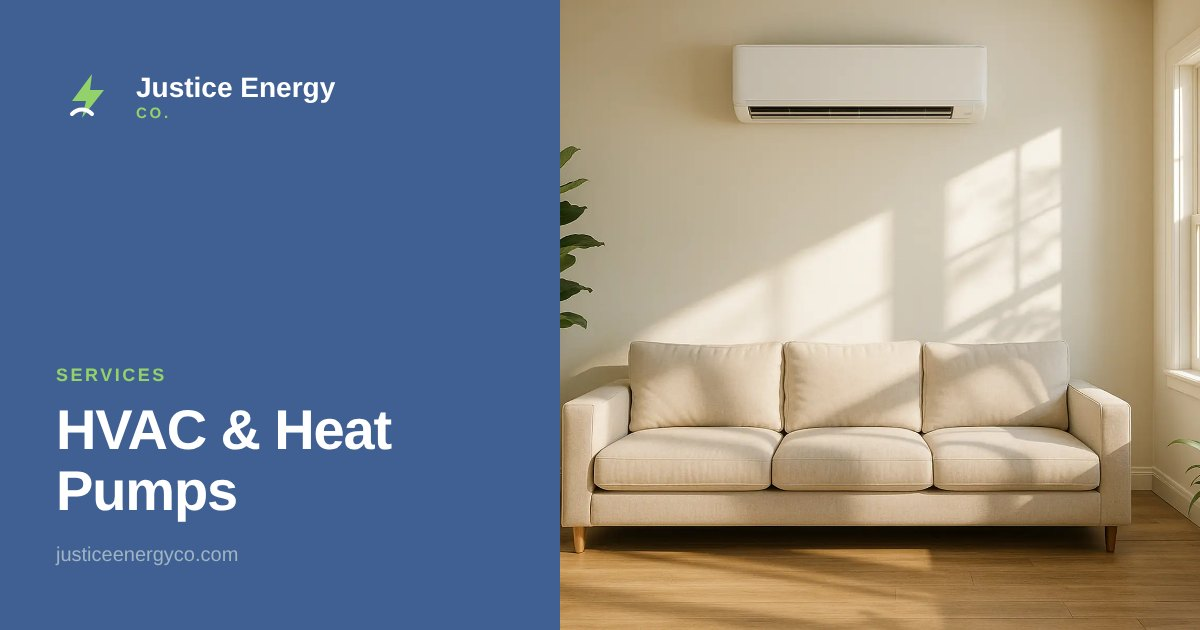
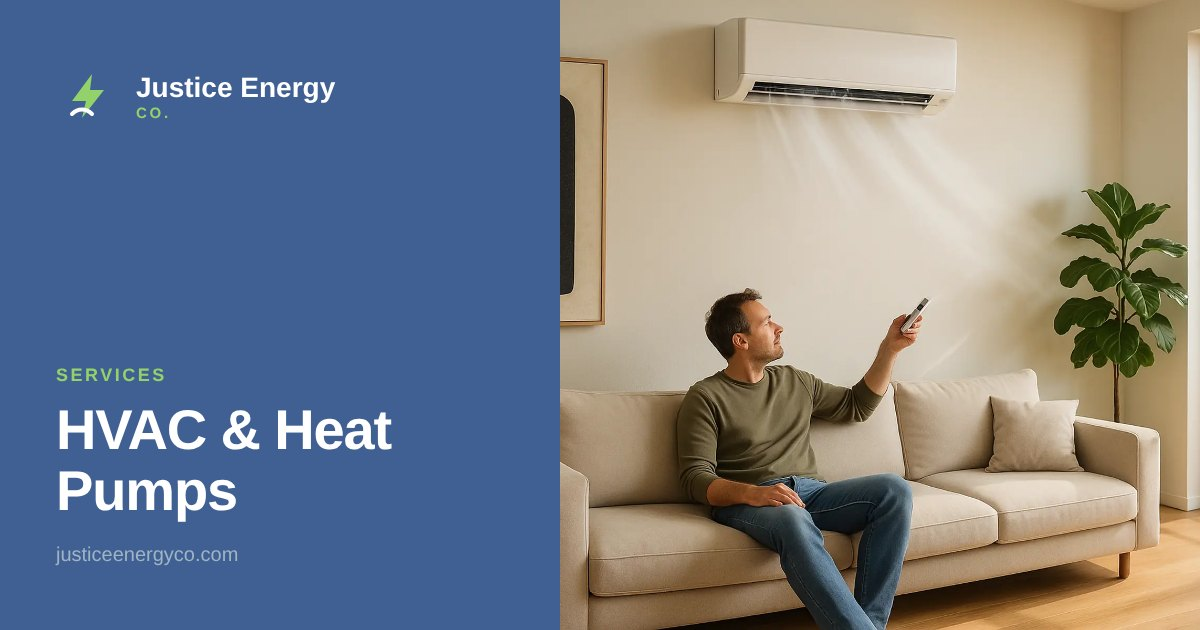
HVAC photo: modern living room, homeowner using the mini-split remote, visible airflow
Claude-Session: https://claude.ai/code/session_01WJBbNDQLUfZvQvpC8s5baG

diff --git a/src/content/photo-prompts.js b/src/content/photo-prompts.js
@@ -28,8 +28,8 @@ module.exports = {
       alt: 'Newly installed heat pump water heater in a clean garage utility area',
     },
     hvac: {
-      prompt: 'Sleek white ductless mini-split indoor unit mounted high on the wall of a bright modern living room, light linen sofa, wood floor, green plants, afternoon sunlight through large windows, calm and comfortable.',
-      alt: 'Ductless mini-split heat pump mounted on the wall of a bright living room',
+      prompt: 'Sleek white ductless mini-split indoor unit mounted high on the wall of a contemporary, design-forward living room: low-profile modular sofa, warm oak floor, minimalist decor, a large abstract artwork, a sculptural floor lamp, green plants, floor-to-ceiling windows with afternoon light. A relaxed adult sits on the sofa cushions, leaning back in the middle of the sofa (not on a bench or ottoman), pointing a small white remote control up at the mini-split and looking at the unit, which is mounted on the wall above and slightly to the side of the sofa. Cool air is clearly visible flowing out of the open louvers: soft white translucent streams of chilled mist fanning out and drifting down across the room toward the sofa, easy to see against the wall, like cold air made visible in a premium air-conditioner advertisement photo.',
+      alt: 'Homeowner on a sofa adjusting a ductless mini-split with a remote as cool air flows into a modern living room',
     },
     'water-conservation': {
       prompt: 'Bright modern bathroom with an efficient chrome showerhead in a glass-enclosed shower, a white vessel sink with a slim water-saving faucet, and a modern white low-flow toilet, light gray tile, natural light, spotless.',

diff --git a/dist/about/index.html b/dist/about/index.html
@@ -128,7 +128,7 @@
       <span class="text-link">Learn more <svg viewBox="0 0 24 24" fill="none" stroke="currentColor" stroke-width="2" stroke-linecap="round" stroke-linejoin="round" aria-hidden="true" focusable="false"><path d="M5 12h14M13 6l6 6-6 6"/></svg></span>
     </div>
   </article><article class="card" data-reveal>
-    <div class="card-media"><img src="/img/slot/hvac.webp" srcset="/img/slot/hvac-800.webp 800w, /img/slot/hvac.webp 1600w" sizes="(min-width: 1024px) 50vw, 100vw" alt="Ductless mini-split heat pump mounted on the wall of a bright living room" width="1600" height="1200" loading="lazy" decoding="async"></div>
+    <div class="card-media"><img src="/img/slot/hvac.webp" srcset="/img/slot/hvac-800.webp 800w, /img/slot/hvac.webp 1600w" sizes="(min-width: 1024px) 50vw, 100vw" alt="Homeowner on a sofa adjusting a ductless mini-split with a remote as cool air flows into a modern living room" width="1600" height="1200" loading="lazy" decoding="async"></div>
     <div class="card-body">
       <span class="ico "><svg viewBox="0 0 24 24" fill="none" stroke="currentColor" stroke-width="2" stroke-linecap="round" stroke-linejoin="round" aria-hidden="true" focusable="false"><circle cx="12" cy="12" r="2"/><path d="M12 10c0-4 1-7 4-7s3 4-2 7M14 12c4 0 7 1 7 4s-4 3-7-2M12 14c0 4-1 7-4 7s-3-4 2-7M10 12c-4 0-7-1-7-4s4-3 7 2"/></svg></span>
       <h3><a href="/services/hvac-heat-pumps/">HVAC &amp; Heat Pumps</a></h3>

diff --git a/dist/index.html b/dist/index.html
@@ -121,7 +121,7 @@
       <span class="text-link">Learn more <svg viewBox="0 0 24 24" fill="none" stroke="currentColor" stroke-width="2" stroke-linecap="round" stroke-linejoin="round" aria-hidden="true" focusable="false"><path d="M5 12h14M13 6l6 6-6 6"/></svg></span>
     </div>
   </article><article class="card" data-reveal>
-    <div class="card-media"><img src="/img/slot/hvac.webp" srcset="/img/slot/hvac-800.webp 800w, /img/slot/hvac.webp 1600w" sizes="(min-width: 1024px) 50vw, 100vw" alt="Ductless mini-split heat pump mounted on the wall of a bright living room" width="1600" height="1200" loading="lazy" decoding="async"></div>
+    <div class="card-media"><img src="/img/slot/hvac.webp" srcset="/img/slot/hvac-800.webp 800w, /img/slot/hvac.webp 1600w" sizes="(min-width: 1024px) 50vw, 100vw" alt="Homeowner on a sofa adjusting a ductless mini-split with a remote as cool air flows into a modern living room" width="1600" height="1200" loading="lazy" decoding="async"></div>
     <div class="card-body">
       <span class="ico "><svg viewBox="0 0 24 24" fill="none" stroke="currentColor" stroke-width="2" stroke-linecap="round" stroke-linejoin="round" aria-hidden="true" focusable="false"><circle cx="12" cy="12" r="2"/><path d="M12 10c0-4 1-7 4-7s3 4-2 7M14 12c4 0 7 1 7 4s-4 3-7-2M12 14c0 4-1 7-4 7s-3-4 2-7M10 12c-4 0-7-1-7-4s4-3 7 2"/></svg></span>
       <h3><a href="/services/hvac-heat-pumps/">HVAC &amp; Heat Pumps</a></h3>

diff --git a/dist/services/index.html b/dist/services/index.html
@@ -105,7 +105,7 @@
       <span class="text-link">Learn more <svg viewBox="0 0 24 24" fill="none" stroke="currentColor" stroke-width="2" stroke-linecap="round" stroke-linejoin="round" aria-hidden="true" focusable="false"><path d="M5 12h14M13 6l6 6-6 6"/></svg></span>
     </div>
   </article><article class="card" data-reveal>
-    <div class="card-media"><img src="/img/slot/hvac.webp" srcset="/img/slot/hvac-800.webp 800w, /img/slot/hvac.webp 1600w" sizes="(min-width: 1024px) 50vw, 100vw" alt="Ductless mini-split heat pump mounted on the wall of a bright living room" width="1600" height="1200" loading="lazy" decoding="async"></div>
+    <div class="card-media"><img src="/img/slot/hvac.webp" srcset="/img/slot/hvac-800.webp 800w, /img/slot/hvac.webp 1600w" sizes="(min-width: 1024px) 50vw, 100vw" alt="Homeowner on a sofa adjusting a ductless mini-split with a remote as cool air flows into a modern living room" width="1600" height="1200" loading="lazy" decoding="async"></div>
     <div class="card-body">
       <span class="ico "><svg viewBox="0 0 24 24" fill="none" stroke="currentColor" stroke-width="2" stroke-linecap="round" stroke-linejoin="round" aria-hidden="true" focusable="false"><circle cx="12" cy="12" r="2"/><path d="M12 10c0-4 1-7 4-7s3 4-2 7M14 12c4 0 7 1 7 4s-4 3-7-2M12 14c0 4-1 7-4 7s-3-4 2-7M10 12c-4 0-7-1-7-4s4-3 7 2"/></svg></span>
       <h2><a href="/services/hvac-heat-pumps/">HVAC &amp; Heat Pumps</a></h2>

diff --git a/dist/services/led-lighting-retrofits/index.html b/dist/services/led-lighting-retrofits/index.html
@@ -161,7 +161,7 @@
       <span class="text-link">Learn more <svg viewBox="0 0 24 24" fill="none" stroke="currentColor" stroke-width="2" stroke-linecap="round" stroke-linejoin="round" aria-hidden="true" focusable="false"><path d="M5 12h14M13 6l6 6-6 6"/></svg></span>
     </div>
   </article><article class="card" data-reveal>
-    <div class="card-media"><img src="/img/slot/hvac.webp" srcset="/img/slot/hvac-800.webp 800w, /img/slot/hvac.webp 1600w" sizes="(min-width: 1024px) 50vw, 100vw" alt="Ductless mini-split heat pump mounted on the wall of a bright living room" width="1600" height="1200" loading="lazy" decoding="async"></div>
+    <div class="card-media"><img src="/img/slot/hvac.webp" srcset="/img/slot/hvac-800.webp 800w, /img/slot/hvac.webp 1600w" sizes="(min-width: 1024px) 50vw, 100vw" alt="Homeowner on a sofa adjusting a ductless mini-split with a remote as cool air flows into a modern living room" width="1600" height="1200" loading="lazy" decoding="async"></div>
     <div class="card-body">
       <span class="ico "><svg viewBox="0 0 24 24" fill="none" stroke="currentColor" stroke-width="2" stroke-linecap="round" stroke-linejoin="round" aria-hidden="true" focusable="false"><circle cx="12" cy="12" r="2"/><path d="M12 10c0-4 1-7 4-7s3 4-2 7M14 12c4 0 7 1 7 4s-4 3-7-2M12 14c0 4-1 7-4 7s-3-4 2-7M10 12c-4 0-7-1-7-4s4-3 7 2"/></svg></span>
       <h3><a href="/services/hvac-heat-pumps/">HVAC &amp; Heat Pumps</a></h3>

diff --git a/dist/services/turf-replacement/index.html b/dist/services/turf-replacement/index.html
@@ -161,7 +161,7 @@
       <span class="text-link">Learn more <svg viewBox="0 0 24 24" fill="none" stroke="currentColor" stroke-width="2" stroke-linecap="round" stroke-linejoin="round" aria-hidden="true" focusable="false"><path d="M5 12h14M13 6l6 6-6 6"/></svg></span>
     </div>
   </article><article class="card" data-reveal>
-    <div class="card-media"><img src="/img/slot/hvac.webp" srcset="/img/slot/hvac-800.webp 800w, /img/slot/hvac.webp 1600w" sizes="(min-width: 1024px) 50vw, 100vw" alt="Ductless mini-split heat pump mounted on the wall of a bright living room" width="1600" height="1200" loading="lazy" decoding="async"></div>
+    <div class="card-media"><img src="/img/slot/hvac.webp" srcset="/img/slot/hvac-800.webp 800w, /img/slot/hvac.webp 1600w" sizes="(min-width: 1024px) 50vw, 100vw" alt="Homeowner on a sofa adjusting a ductless mini-split with a remote as cool air flows into a modern living room" width="1600" height="1200" loading="lazy" decoding="async"></div>
     <div class="card-body">
       <span class="ico "><svg viewBox="0 0 24 24" fill="none" stroke="currentColor" stroke-width="2" stroke-linecap="round" stroke-linejoin="round" aria-hidden="true" focusable="false"><circle cx="12" cy="12" r="2"/><path d="M12 10c0-4 1-7 4-7s3 4-2 7M14 12c4 0 7 1 7 4s-4 3-7-2M12 14c0 4-1 7-4 7s-3-4 2-7M10 12c-4 0-7-1-7-4s4-3 7 2"/></svg></span>
       <h3><a href="/services/hvac-heat-pumps/">HVAC &amp; Heat Pumps</a></h3>

diff --git a/dist/services/water-conservation/index.html b/dist/services/water-conservation/index.html
@@ -161,7 +161,7 @@
       <span class="text-link">Learn more <svg viewBox="0 0 24 24" fill="none" stroke="currentColor" stroke-width="2" stroke-linecap="round" stroke-linejoin="round" aria-hidden="true" focusable="false"><path d="M5 12h14M13 6l6 6-6 6"/></svg></span>
     </div>
   </article><article class="card" data-reveal>
-    <div class="card-media"><img src="/img/slot/hvac.webp" srcset="/img/slot/hvac-800.webp 800w, /img/slot/hvac.webp 1600w" sizes="(min-width: 1024px) 50vw, 100vw" alt="Ductless mini-split heat pump mounted on the wall of a bright living room" width="1600" height="1200" loading="lazy" decoding="async"></div>
+    <div class="card-media"><img src="/img/slot/hvac.webp" srcset="/img/slot/hvac-800.webp 800w, /img/slot/hvac.webp 1600w" sizes="(min-width: 1024px) 50vw, 100vw" alt="Homeowner on a sofa adjusting a ductless mini-split with a remote as cool air flows into a modern living room" width="1600" height="1200" loading="lazy" decoding="async"></div>
     <div class="card-body">
       <span class="ico "><svg viewBox="0 0 24 24" fill="none" stroke="currentColor" stroke-width="2" stroke-linecap="round" stroke-linejoin="round" aria-hidden="true" focusable="false"><circle cx="12" cy="12" r="2"/><path d="M12 10c0-4 1-7 4-7s3 4-2 7M14 12c4 0 7 1 7 4s-4 3-7-2M12 14c0 4-1 7-4 7s-3-4 2-7M10 12c-4 0-7-1-7-4s4-3 7 2"/></svg></span>
       <h3><a href="/services/hvac-heat-pumps/">HVAC &amp; Heat Pumps</a></h3>

diff --git a/dist/services/hvac-heat-pumps/index.html b/dist/services/hvac-heat-pumps/index.html
@@ -85,7 +85,7 @@
   </div>
         <ul class="hero-points"><li><svg viewBox="0 0 24 24" fill="none" stroke="currentColor" stroke-width="2" stroke-linecap="round" stroke-linejoin="round" aria-hidden="true" focusable="false"><path d="m5 12 5 5 9-10"/></svg>One system for both heating and cooling</li><li><svg viewBox="0 0 24 24" fill="none" stroke="currentColor" stroke-width="2" stroke-linecap="round" stroke-linejoin="round" aria-hidden="true" focusable="false"><path d="m5 12 5 5 9-10"/></svg>High-efficiency electric operation with no on-site combustion</li></ul>
       </div>
-      <div class="hero-media"><div class="frame"><img src="/img/slot/hvac.webp" srcset="/img/slot/hvac-800.webp 800w, /img/slot/hvac.webp 1600w" sizes="(min-width: 1024px) 50vw, 100vw" alt="Ductless mini-split heat pump mounted on the wall of a bright living room" width="1600" height="1200" fetchpriority="high" decoding="async"></div></div>
+      <div class="hero-media"><div class="frame"><img src="/img/slot/hvac.webp" srcset="/img/slot/hvac-800.webp 800w, /img/slot/hvac.webp 1600w" sizes="(min-width: 1024px) 50vw, 100vw" alt="Homeowner on a sofa adjusting a ductless mini-split with a remote as cool air flows into a modern living room" width="1600" height="1200" fetchpriority="high" decoding="async"></div></div>
     </div>
   </div>
 </section>

diff --git a/dist/services/water-heating/index.html b/dist/services/water-heating/index.html
@@ -153,7 +153,7 @@
     
   </div>
     <div class="cards"><article class="card" data-reveal>
-    <div class="card-media"><img src="/img/slot/hvac.webp" srcset="/img/slot/hvac-800.webp 800w, /img/slot/hvac.webp 1600w" sizes="(min-width: 1024px) 50vw, 100vw" alt="Ductless mini-split heat pump mounted on the wall of a bright living room" width="1600" height="1200" loading="lazy" decoding="async"></div>
+    <div class="card-media"><img src="/img/slot/hvac.webp" srcset="/img/slot/hvac-800.webp 800w, /img/slot/hvac.webp 1600w" sizes="(min-width: 1024px) 50vw, 100vw" alt="Homeowner on a sofa adjusting a ductless mini-split with a remote as cool air flows into a modern living room" width="1600" height="1200" loading="lazy" decoding="async"></div>
     <div class="card-body">
       <span class="ico "><svg viewBox="0 0 24 24" fill="none" stroke="currentColor" stroke-width="2" stroke-linecap="round" stroke-linejoin="round" aria-hidden="true" focusable="false"><circle cx="12" cy="12" r="2"/><path d="M12 10c0-4 1-7 4-7s3 4-2 7M14 12c4 0 7 1 7 4s-4 3-7-2M12 14c0 4-1 7-4 7s-3-4 2-7M10 12c-4 0-7-1-7-4s4-3 7 2"/></svg></span>
       <h3><a href="/services/hvac-heat-pumps/">HVAC &amp; Heat Pumps</a></h3>
